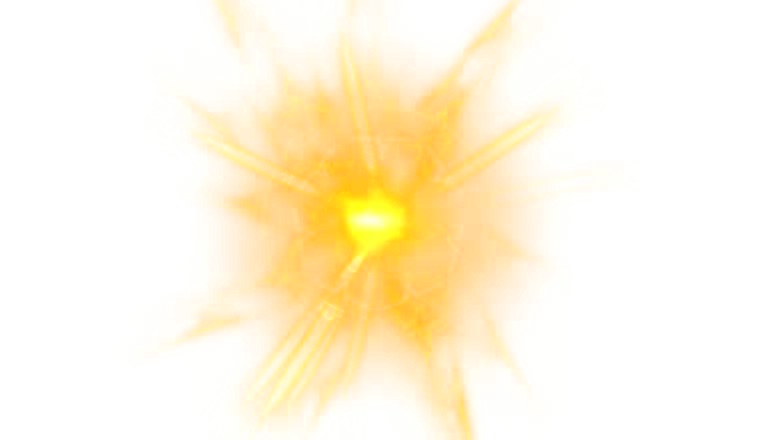
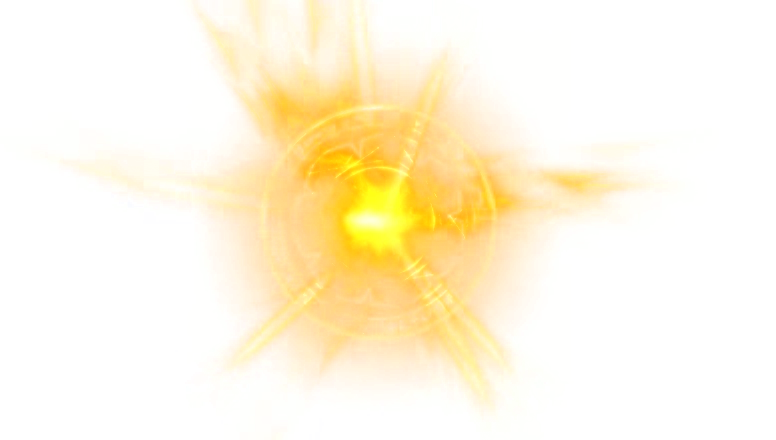
[dev] rot 调整

Changed region(s): [[0.0928, 0.0, 0.8351, 1.0], [0.4639, 0.0295, 0.4948, 0.0886], [0.6495, 0.5614, 0.6804, 0.5909]]

diff --git a/ROT/bin-debug/game/ui/FreeChoose.js b/ROT/bin-debug/game/ui/FreeChoose.js
@@ -62,11 +62,12 @@ var game;
         /**显示*/
         FreeChoose.prototype.show = function () {
             var _this = this;
-            this.visible = true;
             //默认显示
             var defShow = function () {
                 _this.chooseGroup.setChildIndex(_this.rect, 0);
                 _this.chooseGroup.setChildIndex(_this.cardBgLight, 1);
+                _this.tipTxt.visible = true;
+                _this.visible = true;
                 //选项卡默认位置,隐藏黄光
                 _this.countArr.forEach(function (v, i) {
                     var tar = _this["choose" + v];
@@ -150,12 +151,12 @@ var game;
             var _this = this;
             return new Promise(function (res, rej) {
                 //显示背景
-                var bgShow = function (tar, timer) {
+                var bgShow = function (tar, timer, wait) {
                     return new Promise(function (res2, rej2) {
                         tar.scaleX = .8;
                         tar.scaleY = .8;
                         tar.alpha = 0;
-                        egret.Tween.get(tar).wait(100).to({ scaleX: 1, scaleY: 1, alpha: 1 }, timer).call(function () { egret.Tween.removeTweens(tar); res2(); });
+                        egret.Tween.get(tar).wait(wait).to({ scaleX: 1, scaleY: 1, alpha: 1 }, timer, egret.Ease.quintIn).call(function () { egret.Tween.removeTweens(tar); res2(); });
                     });
                 };
                 //粒子效果
@@ -185,12 +186,11 @@ var game;
                     _this.bgLight.source = "light_" + cardType + "_png";
                     _this.maxArr.source = "maxArr_" + cardType + "_png";
                     //背景光
-                    bgShow(_this.bgLight, 400).then(function () {
-                        //大法阵
-                        bgShow(_this.maxArr, 200);
-                        //粒子效果
-                        particleEffect();
-                    });
+                    bgShow(_this.bgLight, 600, 100);
+                    //大法阵
+                    bgShow(_this.maxArr, 600, 200);
+                    //粒子效果
+                    particleEffect();
                 });
             });
         };
@@ -241,6 +241,7 @@ var game;
                 });
             };
             game.SoundPlayer.playEffect("ROT_243_ChoseCard_mp3");
+            this.tipTxt.visible = false;
             this.cardOut(e.target).then(function () {
                 game.SoundPlayer.playEffect("ROT_243_CardEffect_mp3");
                 _this.cardBgAni(cardType);

diff --git a/ROT/src/game/ui/FreeChoose.ts b/ROT/src/game/ui/FreeChoose.ts
@@ -30,11 +30,12 @@ module game {
 		}
 		/**显示*/
 		public show() {
-			this.visible = true;
 			//默认显示
 			let defShow = () => {
 				this.chooseGroup.setChildIndex(this.rect, 0);
 				this.chooseGroup.setChildIndex(this.cardBgLight, 1);
+				this.tipTxt.visible = true;
+				this.visible = true;
 				//选项卡默认位置,隐藏黄光
 				this.countArr.forEach((v, i) => {
 					let tar: eui.Group = this["choose" + v] as eui.Group;
@@ -115,12 +116,12 @@ module game {
 		private cardBgAni(cardType: string): Promise<{}> {
 			return new Promise((res, rej) => {
 				//显示背景
-				let bgShow = (tar: eui.Image, timer: number) => {
+				let bgShow = (tar: eui.Image, timer: number, wait: number) => {
 					return new Promise((res2, rej2) => {
 						tar.scaleX = .8;
 						tar.scaleY = .8;
 						tar.alpha = 0;
-						egret.Tween.get(tar).wait(100).to({ scaleX: 1, scaleY: 1, alpha: 1 }, timer).call(() => { egret.Tween.removeTweens(tar); res2(); });
+						egret.Tween.get(tar).wait(wait).to({ scaleX: 1, scaleY: 1, alpha: 1 }, timer, egret.Ease.quintIn).call(() => { egret.Tween.removeTweens(tar); res2(); });
 					});
 				}
 				//粒子效果
@@ -150,12 +151,11 @@ module game {
 						this.bgLight.source = "light_" + cardType + "_png";
 						this.maxArr.source = "maxArr_" + cardType + "_png";
 						//背景光
-						bgShow(this.bgLight, 400).then(() => {
-							//大法阵
-							bgShow(this.maxArr, 200);
-							//粒子效果
-							particleEffect();
-						});
+						bgShow(this.bgLight, 600, 100);
+						//大法阵
+						bgShow(this.maxArr, 600, 200);
+						//粒子效果
+						particleEffect();
 					});
 			});
 		}
@@ -197,12 +197,13 @@ module game {
 				});
 			}
 			SoundPlayer.playEffect("ROT_243_ChoseCard_mp3");
+			this.tipTxt.visible = false;
 			this.cardOut(e.target).then(() => {
 				SoundPlayer.playEffect("ROT_243_CardEffect_mp3");
 				this.cardBgAni(cardType);
 				setTimeout(() => {
 					sendFree().then(() => {
-						this.close().then(()=>this.sendNotify(NotifyConst.chooseFreeBack, respData));
+						this.close().then(() => this.sendNotify(NotifyConst.chooseFreeBack, respData));
 					});
 				}, 1500);
 			});

diff --git a/ROT/bin-debug/game/ui/GameScene.js b/ROT/bin-debug/game/ui/GameScene.js
@@ -147,6 +147,7 @@ var game;
             var _this = this;
             this.registerEvent(this.testInput, egret.TouchEvent.TOUCH_TAP, function () {
                 _this.bottomBar.hideCutGroup(true);
+                _this.bigWin.bigWinStart("big", 200);
             }, this);
         };
         /**
@@ -1014,8 +1015,8 @@ var game;
                 _this.mc = new game.AMovieClip();
                 _this.mc.sources = _this.value == "1" && _this.gameScene.buff != "-1" ? ("free" + _this.gameScene.buff + "_|1-15|_png") : (_this.value + "_|1-15|_png");
                 _this.mc.speed = 5;
-                _this.mc.x = _this.tile.x;
-                _this.mc.y = _this.tile.y;
+                _this.mc.x = _this.tile.x + 2;
+                _this.mc.y = _this.tile.y + 5;
                 _this.mc.width = _this.tile.width;
                 _this.mc.height = _this.tile.height;
                 _this.gameScene["winGridGroup"].addChild(_this.mc);

diff --git a/ROT/src/game/ui/GameScene.ts b/ROT/src/game/ui/GameScene.ts
@@ -161,6 +161,7 @@ module game {
 		private initListener() {
 			this.registerEvent(this.testInput, egret.TouchEvent.TOUCH_TAP, () => {
 				this.bottomBar.hideCutGroup(true);
+				this.bigWin.bigWinStart("big",200);
 			}, this);
 		}
         /**
@@ -912,8 +913,8 @@ module game {
 				this.mc = new AMovieClip();
 				this.mc.sources = this.value == "1" && this.gameScene.buff != "-1" ? ("free" + this.gameScene.buff + "_|1-15|_png") : (this.value + "_|1-15|_png");
 				this.mc.speed = 5;
-				this.mc.x = this.tile.x;
-				this.mc.y = this.tile.y;
+				this.mc.x = this.tile.x + 2;
+				this.mc.y = this.tile.y + 5;
 				this.mc.width = this.tile.width;
 				this.mc.height = this.tile.height;
 				this.gameScene["winGridGroup"].addChild(this.mc);
